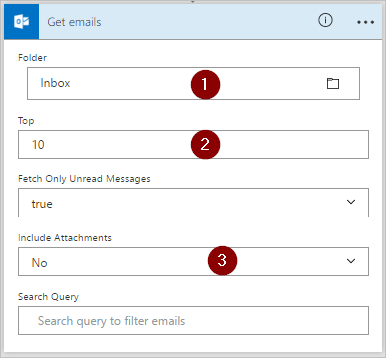
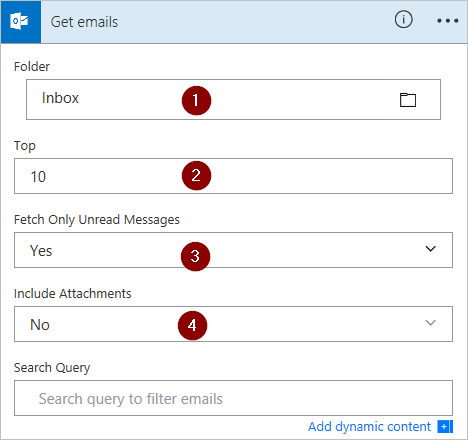
flowforeach updates

Changed region(s): [[0.0, 0.0, 1.0, 1.0], [0.3731, 0.1844, 0.5907, 0.2765]]

diff --git a/articles/apply-to-each.md b/articles/apply-to-each.md
@@ -94,7 +94,7 @@ After you have signed into the [Microsoft Flow](https://flow.microsoft.com):
 
           ![configure condition](./media/apply-to-each/foreach-subject-condition.png)
 
-1. Select **... More**, and then select **Add a condition** from the **IF YES, DO NOTHING** branch. This opens the **Condition 2** card; configure that card like this:
+1. Select **More**, and then select **Add a condition** from the **IF YES, DO NOTHING** branch. This opens the **Condition 2** card; configure that card like this:
 
      - Insert the **Importance** token into the **Object Name** control.
      - Select **is equal to** in the **Relationship** drop down list box.
@@ -118,7 +118,7 @@ After you have signed into the [Microsoft Flow](https://flow.microsoft.com):
 
      ![add mark as read action](./media/apply-to-each/foreach-12.png)
 
-1. Add the **Message Id** token to the **Message Id** control of the **Mark as read** card. Seach for "message" on the **Add dynamic content from the apps and services used in this flow** card to find the **Message Id** token. This indicates the Id of the message that will be marked as read:
+1. Add the **Message Id** token to the **Message Id** control of the **Mark as read** card. You may need to select **See more** to find the **Message Id** token. This indicates the Id of the message that will be marked as read:
 
      ![add message id](./media/apply-to-each/foreach-13.png)
 
@@ -129,7 +129,7 @@ After you have signed into the [Microsoft Flow](https://flow.microsoft.com):
 
           ![add and configure get manager action](./media/apply-to-each/foreach-get-manager.png)
 
-1. Select **... More**, and then select **Add a condition** from the **IF NO** branch. This opens the **Condition 3** card; configure the card to check if the email sender's email address (the From token) is the same as your boss' email address (the Email token):
+1. Select **More**, and then select **Add a condition** from the **IF NO** branch. This opens the **Condition 3** card; configure the card to check if the email sender's email address (the From token) is the same as your boss' email address (the Email token):
      - Insert the **From** token into the **Object Name** control.
      - Select **contains** in the **Relationship** drop down list box.
      - Enter **Email** token into the **Value** control.
@@ -152,7 +152,7 @@ After you have signed into the [Microsoft Flow](https://flow.microsoft.com):
 
      ![add mark as read action](./media/apply-to-each/foreach-12.png)
 
-1. Add the **Message Id** token to the **Mark as read 2** card. Seach for "message" on the **Add dynamic content from the apps and services used in this flow** card to find the **Message Id** token. This indicates the Id of the message that will be marked as read:
+1. Add the **Message Id** token to the **Mark as read 2** card. You may need to select **See more** to find the **Message Id** token. This indicates the Id of the message that will be marked as read:
 
      ![configure mark as read action](./media/apply-to-each/foreach-mark-as-read2.png)
 
